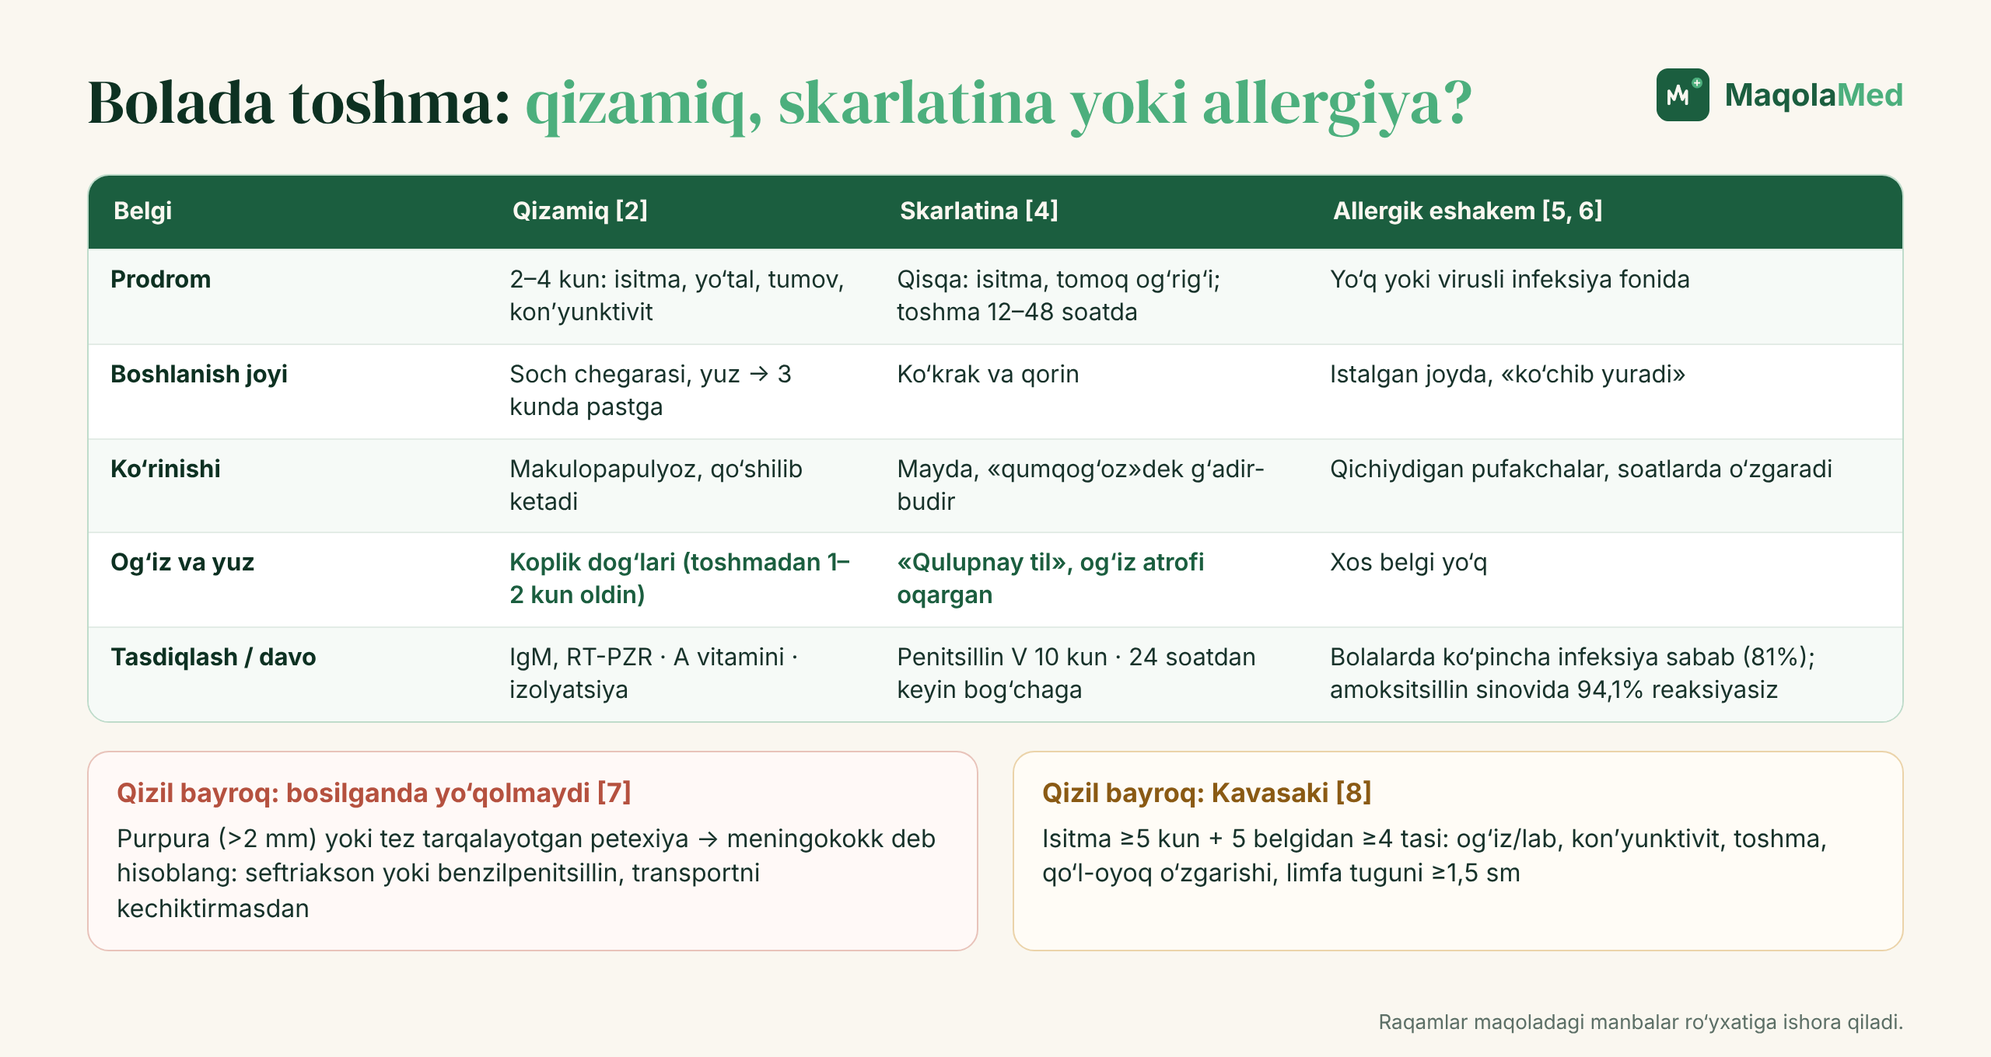
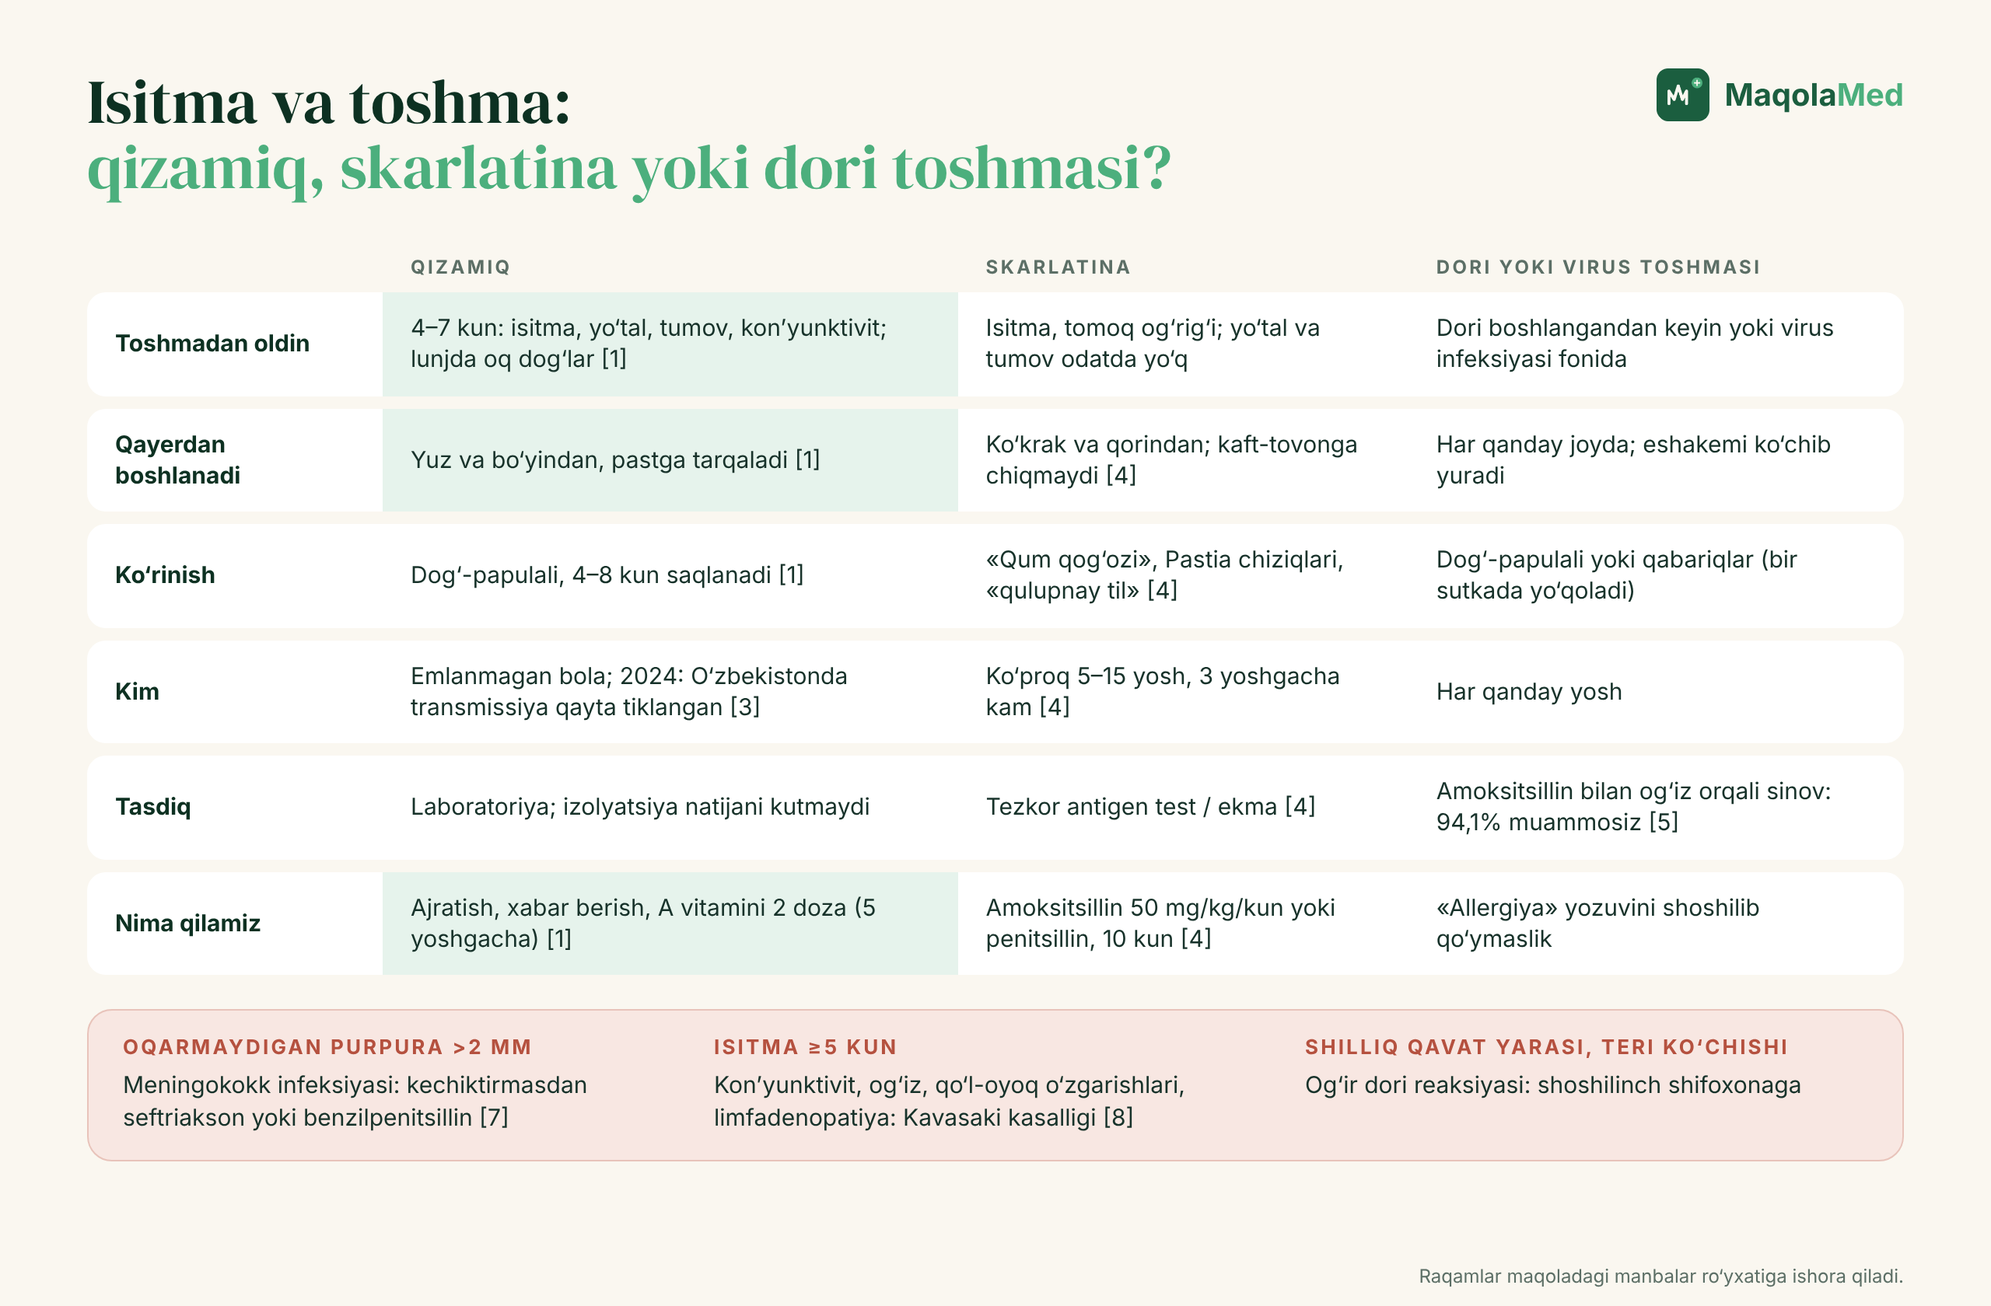
12-dekabr maqolasi qayta yozildi (v2, humanizer): bolada toshma — muqovalar, 1 rasm

diff --git a/_manba/2026-12-12/muqova-instagram-4x5.html b/_manba/2026-12-12/muqova-instagram-4x5.html
@@ -1,0 +1,87 @@
+<!doctype html>
+<html lang="uz">
+<head><base href="file:///home/claude/maqolamed-rasmlar/_shablon/">
+<meta charset="utf-8">
+<style>
+@font-face{font-family:"DM Serif Display";src:url("fonts/dm-serif-display-latin-400-normal.woff2") format("woff2");}
+@font-face{font-family:"DM Serif Display";src:url("fonts/dm-serif-display-latin-ext-400-normal.woff2") format("woff2");unicode-range:U+0100-024F,U+1E00-1EFF;}
+:root{
+  --emerald:#1B5E3F; --deep:#0D3122; --cream:#FAF7F0; --mint:#7FC9A0; --green:#4CAF7D;
+}
+*{margin:0;padding:0;box-sizing:border-box}
+html,body{width:1280px;height:720px;overflow:hidden;background:var(--deep)}
+.cover{position:relative;width:1280px;height:720px;overflow:hidden;font-family:"Inter",sans-serif;color:var(--cream);
+  background:
+    radial-gradient(900px 600px at 78% 40%, rgba(76,175,125,.22), transparent 60%),
+    radial-gradient(700px 500px at 0% 100%, rgba(13,49,34,.9), transparent 70%),
+    linear-gradient(135deg,#123F2C 0%, #1B5E3F 55%, #164D34 100%);}
+.grid{position:absolute;inset:0;background-image:
+    linear-gradient(rgba(250,247,240,.035) 1px,transparent 1px),
+    linear-gradient(90deg,rgba(250,247,240,.035) 1px,transparent 1px);
+  background-size:40px 40px;}
+.ekg{position:absolute;left:0;top:300px;width:1280px;height:200px;opacity:.16}
+.left{position:absolute;left:64px;top:52px;width:690px}
+.brand{display:flex;align-items:center;gap:28px}
+.brand img{height:62px;display:block}
+.tag{display:flex;align-items:center;gap:14px;font-size:13px;letter-spacing:.32em;color:rgba(250,247,240,.72);font-weight:500}
+.tag i{width:4px;height:4px;border-radius:50%;background:var(--mint);display:inline-block}
+.tag .line{width:90px;height:1px;background:rgba(250,247,240,.35)}
+.kicker{margin-top:54px;display:inline-flex;align-items:center;gap:10px;font-size:15px;font-weight:600;letter-spacing:.14em;text-transform:uppercase;color:var(--mint)}
+.kicker span{display:inline-block;width:28px;height:2px;background:var(--mint)}
+h1{margin-top:16px;font-family:"DM Serif Display",serif;font-weight:400;font-size:78px;line-height:.98;letter-spacing:-.01em;color:var(--cream)}
+h1 em{font-style:normal;color:var(--mint)}
+.sub{margin-top:22px;font-size:21px;color:rgba(250,247,240,.82);font-weight:400}
+.points{position:absolute;left:64px;bottom:50px;display:flex;gap:0}
+.pt{width:172px;padding-right:18px;display:flex;flex-direction:column;align-items:flex-start;gap:12px}
+.pt + .pt{padding-left:22px;border-left:1px solid rgba(250,247,240,.18)}
+.ic{width:52px;height:52px;border-radius:50%;border:1.6px solid rgba(250,247,240,.75);display:grid;place-items:center}
+.ic svg{width:26px;height:26px;stroke:var(--cream);fill:none;stroke-width:1.7;stroke-linecap:round;stroke-linejoin:round}
+.pt p{font-size:15px;line-height:1.3;color:rgba(250,247,240,.92);font-weight:500}
+.card{position:absolute;right:56px;top:96px;width:400px;border-radius:22px;padding:28px 30px 26px;
+  background:linear-gradient(160deg,rgba(13,49,34,.82),rgba(13,49,34,.62));
+  border:1px solid rgba(127,201,160,.35);box-shadow:0 30px 60px rgba(0,0,0,.35)}
+.card .ch{display:flex;justify-content:space-between;align-items:center}
+.card .lbl{font-size:12px;letter-spacing:.24em;font-weight:600;color:var(--mint)}
+.card .pill{font-size:12px;font-weight:600;padding:5px 10px;border-radius:999px;background:rgba(127,201,160,.16);color:var(--mint)}
+.card h3{margin-top:14px;font-size:22px;font-weight:600}
+.card h3 small{display:block;margin-top:4px;font-size:14px;font-weight:400;color:rgba(250,247,240,.65)}
+.rows{margin-top:18px;border-top:1px solid rgba(250,247,240,.14)}
+.row{display:flex;justify-content:space-between;padding:9px 0;border-bottom:1px solid rgba(250,247,240,.10);font-size:16px}
+.row span:first-child{color:rgba(250,247,240,.68)}
+.row span:last-child{font-weight:600;font-variant-numeric:tabular-nums}
+.row .ok{color:var(--mint)}
+.quote{margin-top:18px;font-family:"DM Serif Display",serif;font-size:21px;line-height:1.25;color:var(--cream)}
+.ask{margin-top:16px;display:flex;align-items:center;justify-content:space-between;padding:13px 16px;border-radius:12px;background:var(--green);color:#0D3122;font-weight:700;font-size:17px}
+.ask svg{width:22px;height:22px;stroke:#0D3122;fill:none;stroke-width:2.2;stroke-linecap:round;stroke-linejoin:round}
+
+html,body{width:1080px;height:1350px}
+.cover{width:1080px;height:1350px}
+.ekg{top:525px;width:1080px}
+.left{left:72px;top:64px;width:940px}
+.brand img{height:72px}
+h1{font-size:96px;margin-top:18px}
+.kicker{margin-top:56px;font-size:17px}
+.sub{font-size:24px}
+.card{left:72px;right:72px;top:auto;bottom:250px;width:auto;padding:30px 34px}
+.rows{display:grid;grid-template-columns:1fr 1fr;column-gap:40px}
+.quote{font-size:24px}
+.points{left:72px;right:72px;bottom:60px}
+.pt{width:auto;flex:1}
+.pt p{font-size:17px}
+
+
+
+h1{font-size:86px}
+</style>
+</head>
+<body><div class="cover"><div class="grid"></div>
+<svg class="ekg" viewBox="0 0 1280 200" preserveAspectRatio="none"><polyline fill="none" stroke="#7FC9A0" stroke-width="3" stroke-linejoin="round" stroke-linecap="round" points="0,120 640,120 670,120 690,98 710,120 750,120 770,40 795,175 820,120 880,120 905,102 930,120 1280,120"/></svg>
+<div class="left"><div class="brand"><img src="logo_dark_bg.png" alt="MaqolaMed"></div>
+<div class="tag" style="margin-top:22px"><span>ILM</span><i></i><span>AMALIYOT</span><i></i><span>ODAM UCHUN</span><span class="line"></span></div>
+<div class="kicker"><span></span>Farqlash · Pediatriya</div>
+<h1>Bolada toshma:<br>qizamiqmi, skarlatinami<br><em>yoki allergiya?</em></h1>
+<div class="sub">Toshmadan oldingi kunlar tashxisni aytib beradi.</div></div>
+<div class="points"><div class="pt"><div class="ic"><svg viewBox="0 0 24 24"><circle cx="12" cy="12" r="9"/><path d="M9.5 9.5a2.5 2.5 0 1 1 3.5 2.3c-.7.3-1 .8-1 1.5v.7"/><path d="M12 17v.5"/></svg></div><p>Toshma qayerdan boshlanadi?</p></div><div class="pt"><div class="ic"><svg viewBox="0 0 24 24"><path d="M9 3h6"/><path d="M10 3v12.5a2 2 0 0 0 4 0V3"/><path d="M10 10h4"/><path d="M5 21h14"/></svg></div><p>Skarlatinaga qaysi test kerak?</p></div><div class="pt"><div class="ic"><svg viewBox="0 0 24 24"><rect x="3" y="8.5" width="18" height="7" rx="3.5" transform="rotate(-40 12 12)"/><path d="M9.3 9.3l5.4 5.4"/></svg></div><p>Amoksitsillin allergiyasi rostmi?</p></div><div class="pt"><div class="ic"><svg viewBox="0 0 24 24"><path d="M12 3l9.5 17h-19z"/><path d="M12 10v4"/><path d="M12 17v.5"/></svg></div><p>Qaysi toshma kutmaydi?</p></div></div>
+<div class="card"><div class="ch"><span class="lbl">FARQLASH</span><span class="pill">3 tashxis</span></div>
+<h3>Toshma qayerdan boshlanadi?<small>JSST 2026 · CDC 2026 · NICE 2024</small></h3><div class="rows"><div class="row"><span>Qizamiq</span><span class="ok">yuz → pastga</span></div><div class="row"><span>Skarlatina</span><span class="">ko‘krak, qorin</span></div><div class="row"><span>Eshakemi</span><span class="">ko‘chib yuradi</span></div><div class="row"><span>Purpura >2 mm</span><span class="">shoshilinch!</span></div></div><div class="quote">«Suprastin qilib qo‘yamizmi?»</div><div class="ask">Siz nima qilardingiz?<svg viewBox="0 0 24 24"><path d="M5 12h14"/><path d="M13 6l6 6-6 6"/></svg></div></div>
+</div></body></html>

diff --git a/_manba/2026-12-12/muqova-16x9.html b/_manba/2026-12-12/muqova-16x9.html
@@ -1,0 +1,70 @@
+<!doctype html>
+<html lang="uz">
+<head><base href="file:///home/claude/maqolamed-rasmlar/_shablon/">
+<meta charset="utf-8">
+<style>
+@font-face{font-family:"DM Serif Display";src:url("fonts/dm-serif-display-latin-400-normal.woff2") format("woff2");}
+@font-face{font-family:"DM Serif Display";src:url("fonts/dm-serif-display-latin-ext-400-normal.woff2") format("woff2");unicode-range:U+0100-024F,U+1E00-1EFF;}
+:root{
+  --emerald:#1B5E3F; --deep:#0D3122; --cream:#FAF7F0; --mint:#7FC9A0; --green:#4CAF7D;
+}
+*{margin:0;padding:0;box-sizing:border-box}
+html,body{width:1280px;height:720px;overflow:hidden;background:var(--deep)}
+.cover{position:relative;width:1280px;height:720px;overflow:hidden;font-family:"Inter",sans-serif;color:var(--cream);
+  background:
+    radial-gradient(900px 600px at 78% 40%, rgba(76,175,125,.22), transparent 60%),
+    radial-gradient(700px 500px at 0% 100%, rgba(13,49,34,.9), transparent 70%),
+    linear-gradient(135deg,#123F2C 0%, #1B5E3F 55%, #164D34 100%);}
+.grid{position:absolute;inset:0;background-image:
+    linear-gradient(rgba(250,247,240,.035) 1px,transparent 1px),
+    linear-gradient(90deg,rgba(250,247,240,.035) 1px,transparent 1px);
+  background-size:40px 40px;}
+.ekg{position:absolute;left:0;top:300px;width:1280px;height:200px;opacity:.16}
+.left{position:absolute;left:64px;top:52px;width:690px}
+.brand{display:flex;align-items:center;gap:28px}
+.brand img{height:62px;display:block}
+.tag{display:flex;align-items:center;gap:14px;font-size:13px;letter-spacing:.32em;color:rgba(250,247,240,.72);font-weight:500}
+.tag i{width:4px;height:4px;border-radius:50%;background:var(--mint);display:inline-block}
+.tag .line{width:90px;height:1px;background:rgba(250,247,240,.35)}
+.kicker{margin-top:54px;display:inline-flex;align-items:center;gap:10px;font-size:15px;font-weight:600;letter-spacing:.14em;text-transform:uppercase;color:var(--mint)}
+.kicker span{display:inline-block;width:28px;height:2px;background:var(--mint)}
+h1{margin-top:16px;font-family:"DM Serif Display",serif;font-weight:400;font-size:78px;line-height:.98;letter-spacing:-.01em;color:var(--cream)}
+h1 em{font-style:normal;color:var(--mint)}
+.sub{margin-top:22px;font-size:21px;color:rgba(250,247,240,.82);font-weight:400}
+.points{position:absolute;left:64px;bottom:50px;display:flex;gap:0}
+.pt{width:172px;padding-right:18px;display:flex;flex-direction:column;align-items:flex-start;gap:12px}
+.pt + .pt{padding-left:22px;border-left:1px solid rgba(250,247,240,.18)}
+.ic{width:52px;height:52px;border-radius:50%;border:1.6px solid rgba(250,247,240,.75);display:grid;place-items:center}
+.ic svg{width:26px;height:26px;stroke:var(--cream);fill:none;stroke-width:1.7;stroke-linecap:round;stroke-linejoin:round}
+.pt p{font-size:15px;line-height:1.3;color:rgba(250,247,240,.92);font-weight:500}
+.card{position:absolute;right:56px;top:96px;width:400px;border-radius:22px;padding:28px 30px 26px;
+  background:linear-gradient(160deg,rgba(13,49,34,.82),rgba(13,49,34,.62));
+  border:1px solid rgba(127,201,160,.35);box-shadow:0 30px 60px rgba(0,0,0,.35)}
+.card .ch{display:flex;justify-content:space-between;align-items:center}
+.card .lbl{font-size:12px;letter-spacing:.24em;font-weight:600;color:var(--mint)}
+.card .pill{font-size:12px;font-weight:600;padding:5px 10px;border-radius:999px;background:rgba(127,201,160,.16);color:var(--mint)}
+.card h3{margin-top:14px;font-size:22px;font-weight:600}
+.card h3 small{display:block;margin-top:4px;font-size:14px;font-weight:400;color:rgba(250,247,240,.65)}
+.rows{margin-top:18px;border-top:1px solid rgba(250,247,240,.14)}
+.row{display:flex;justify-content:space-between;padding:9px 0;border-bottom:1px solid rgba(250,247,240,.10);font-size:16px}
+.row span:first-child{color:rgba(250,247,240,.68)}
+.row span:last-child{font-weight:600;font-variant-numeric:tabular-nums}
+.row .ok{color:var(--mint)}
+.quote{margin-top:18px;font-family:"DM Serif Display",serif;font-size:21px;line-height:1.25;color:var(--cream)}
+.ask{margin-top:16px;display:flex;align-items:center;justify-content:space-between;padding:13px 16px;border-radius:12px;background:var(--green);color:#0D3122;font-weight:700;font-size:17px}
+.ask svg{width:22px;height:22px;stroke:#0D3122;fill:none;stroke-width:2.2;stroke-linecap:round;stroke-linejoin:round}
+
+h1{font-size:62px}
+</style>
+</head>
+<body><div class="cover"><div class="grid"></div>
+<svg class="ekg" viewBox="0 0 1280 200" preserveAspectRatio="none"><polyline fill="none" stroke="#7FC9A0" stroke-width="3" stroke-linejoin="round" stroke-linecap="round" points="0,120 640,120 670,120 690,98 710,120 750,120 770,40 795,175 820,120 880,120 905,102 930,120 1280,120"/></svg>
+<div class="left"><div class="brand"><img src="logo_dark_bg.png" alt="MaqolaMed"></div>
+<div class="tag" style="margin-top:22px"><span>ILM</span><i></i><span>AMALIYOT</span><i></i><span>ODAM UCHUN</span><span class="line"></span></div>
+<div class="kicker"><span></span>Farqlash · Pediatriya</div>
+<h1>Bolada toshma:<br>qizamiqmi, skarlatinami<br><em>yoki allergiya?</em></h1>
+<div class="sub">Toshmadan oldingi kunlar tashxisni aytib beradi.</div></div>
+<div class="points"><div class="pt"><div class="ic"><svg viewBox="0 0 24 24"><circle cx="12" cy="12" r="9"/><path d="M9.5 9.5a2.5 2.5 0 1 1 3.5 2.3c-.7.3-1 .8-1 1.5v.7"/><path d="M12 17v.5"/></svg></div><p>Toshma qayerdan boshlanadi?</p></div><div class="pt"><div class="ic"><svg viewBox="0 0 24 24"><path d="M9 3h6"/><path d="M10 3v12.5a2 2 0 0 0 4 0V3"/><path d="M10 10h4"/><path d="M5 21h14"/></svg></div><p>Skarlatinaga qaysi test kerak?</p></div><div class="pt"><div class="ic"><svg viewBox="0 0 24 24"><rect x="3" y="8.5" width="18" height="7" rx="3.5" transform="rotate(-40 12 12)"/><path d="M9.3 9.3l5.4 5.4"/></svg></div><p>Amoksitsillin allergiyasi rostmi?</p></div><div class="pt"><div class="ic"><svg viewBox="0 0 24 24"><path d="M12 3l9.5 17h-19z"/><path d="M12 10v4"/><path d="M12 17v.5"/></svg></div><p>Qaysi toshma kutmaydi?</p></div></div>
+<div class="card"><div class="ch"><span class="lbl">FARQLASH</span><span class="pill">3 tashxis</span></div>
+<h3>Toshma qayerdan boshlanadi?<small>JSST 2026 · CDC 2026 · NICE 2024</small></h3><div class="rows"><div class="row"><span>Qizamiq</span><span class="ok">yuz → pastga</span></div><div class="row"><span>Skarlatina</span><span class="">ko‘krak, qorin</span></div><div class="row"><span>Eshakemi</span><span class="">ko‘chib yuradi</span></div><div class="row"><span>Purpura >2 mm</span><span class="">shoshilinch!</span></div></div><div class="quote">«Suprastin qilib qo‘yamizmi?»</div><div class="ask">Siz nima qilardingiz?<svg viewBox="0 0 24 24"><path d="M5 12h14"/><path d="M13 6l6 6-6 6"/></svg></div></div>
+</div></body></html>

diff --git a/_manba/2026-12-12/1-rasm.html b/_manba/2026-12-12/1-rasm.html
@@ -1,0 +1,49 @@
+<!doctype html><html lang="uz"><head><meta charset="utf-8"><base href="file:///home/claude/maqolamed-rasmlar/_shablon/">
+<style>
+@font-face{font-family:"DM Serif Display";src:url("fonts/dm-serif-display-latin-400-normal.woff2") format("woff2");}
+@font-face{font-family:"DM Serif Display";src:url("fonts/dm-serif-display-latin-ext-400-normal.woff2") format("woff2");unicode-range:U+0100-024F,U+1E00-1EFF;}
+:root{--emerald:#1B5E3F;--deep:#0D3122;--cream:#FAF7F0;--mint:#7FC9A0;--green:#4CAF7D;--ink:#17322A;--muted:#5C6F66;--amber:#C98A2E;--amberbg:#FBF1E1;--red:#B5513F;--redbg:#F8E7E2;--tint:#E6F3EC}
+*{margin:0;padding:0;box-sizing:border-box}
+html,body{width:1280px;height:var(--H,900px);background:var(--cream);overflow:hidden}
+.fig{position:relative;width:1280px;height:var(--H,900px);padding:44px 56px;font-family:"Inter",sans-serif;color:var(--ink)}
+.top{display:flex;justify-content:space-between;align-items:flex-start;margin-bottom:28px}
+h1{font-family:"DM Serif Display",serif;font-weight:400;font-size:40px;line-height:1.05;color:var(--deep)}
+h1 em{font-style:normal;color:var(--green)}
+.brand{display:flex;align-items:center;gap:10px;font-weight:700;font-size:20px;color:var(--emerald)}
+.brand img{height:34px}.brand b{color:var(--green);font-weight:700}
+table{width:100%;border-collapse:separate;border-spacing:0 8px;font-size:16px;line-height:1.35}
+th{text-align:left;font-size:12px;letter-spacing:.14em;text-transform:uppercase;color:var(--muted);padding:0 18px 2px;font-weight:700}
+td{background:#fff;padding:13px 18px;vertical-align:middle}
+td:first-child{border-radius:12px 0 0 12px;font-weight:700;color:var(--deep)}
+td:last-child{border-radius:0 12px 12px 0}
+td.new{background:var(--tint)} td.same{background:#F1EEE6;color:var(--muted)}
+td.warn{background:var(--redbg)}
+.badge{display:inline-block;font-size:11px;font-weight:700;letter-spacing:.08em;padding:4px 9px;border-radius:999px;margin-right:8px;vertical-align:1px}
+.b-new{background:var(--emerald);color:var(--cream)} .b-same{background:#E2DED3;color:var(--muted)} .b-red{background:var(--red);color:#fff} .b-amb{background:var(--amber);color:#fff}
+.muted{color:var(--muted)}
+.node{border-radius:14px;padding:14px 18px;font-size:16px;line-height:1.38}
+.node b{display:block;font-size:17px;margin-bottom:3px}
+.n-dark{background:var(--emerald);color:var(--cream)} .n-deep{background:var(--deep);color:var(--cream)}
+.n-white{background:#fff;border:1.5px solid #BFDCCB} .n-amb{background:#fff;border:1.5px solid #EBD3A9} .n-red{background:var(--redbg);border:1.5px solid #E8C3BA}
+.tagc{display:inline-block;font-size:12px;font-weight:700;letter-spacing:.12em;text-transform:uppercase;padding:6px 12px;border-radius:999px}
+.t-g{background:#DDEFE5;color:var(--emerald)} .t-a{background:var(--amberbg);color:#8A5A14} .t-r{background:var(--redbg);color:var(--red)}
+.note{position:absolute;left:56px;right:56px;bottom:40px;padding:14px 18px;border-radius:12px;background:#EEF2EE;font-size:15px;line-height:1.4}
+.note b{color:var(--deep)}
+.src{position:absolute;right:56px;bottom:12px;font-size:12px;color:var(--muted)}
+.arrow{stroke:var(--emerald);stroke-width:2.2;fill:none}
+</style></head><body><style>:root{--H:840px}
+table{font-size:15px}td:first-child{width:190px}th{padding-bottom:0}
+.alarm2{margin-top:14px;border-radius:16px;padding:16px 22px;background:var(--redbg);border:1.5px solid #E8C3BA;display:grid;grid-template-columns:repeat(3,1fr);gap:18px;font-size:15px;line-height:1.38}
+.alarm2 b{display:block;color:var(--red);font-size:13px;letter-spacing:.12em;text-transform:uppercase;margin-bottom:4px}
+</style>
+<div class="fig"><div class="top"><h1>Isitma va toshma:<br><em>qizamiq, skarlatina yoki dori toshmasi?</em></h1><div class="brand"><img src="icon.png" alt=""><span>Maqola<b>Med</b></span></div></div>
+
+<table><tr><th></th><th>Qizamiq</th><th>Skarlatina</th><th>Dori yoki virus toshmasi</th></tr>
+<tr><td>Toshmadan oldin</td><td class="new">4–7 kun: isitma, yo‘tal, tumov, kon’yunktivit; lunjda oq dog‘lar [1]</td><td>Isitma, tomoq og‘rig‘i; yo‘tal va tumov odatda yo‘q</td><td>Dori boshlangandan keyin yoki virus infeksiyasi fonida</td></tr>
+<tr><td>Qayerdan boshlanadi</td><td class="new">Yuz va bo‘yindan, pastga tarqaladi [1]</td><td>Ko‘krak va qorindan; kaft-tovonga chiqmaydi [4]</td><td>Har qanday joyda; eshakemi ko‘chib yuradi</td></tr>
+<tr><td>Ko‘rinish</td><td>Dog‘-papulali, 4–8 kun saqlanadi [1]</td><td>«Qum qog‘ozi», Pastia chiziqlari, «qulupnay til» [4]</td><td>Dog‘-papulali yoki qabariqlar (bir sutkada yo‘qoladi)</td></tr>
+<tr><td>Kim</td><td>Emlanmagan bola; 2024: O‘zbekistonda transmissiya qayta tiklangan [3]</td><td>Ko‘proq 5–15 yosh, 3 yoshgacha kam [4]</td><td>Har qanday yosh</td></tr>
+<tr><td>Tasdiq</td><td>Laboratoriya; izolyatsiya natijani kutmaydi</td><td>Tezkor antigen test / ekma [4]</td><td>Amoksitsillin bilan og‘iz orqali sinov: 94,1% muammosiz [5]</td></tr>
+<tr><td>Nima qilamiz</td><td class="new">Ajratish, xabar berish, A vitamini 2 doza (5 yoshgacha) [1]</td><td>Amoksitsillin 50 mg/kg/kun yoki penitsillin, 10 kun [4]</td><td>«Allergiya» yozuvini shoshilib qo‘ymaslik</td></tr></table>
+<div class="alarm2"><div><b>Oqarmaydigan purpura &gt;2 mm</b>Meningokokk infeksiyasi: kechiktirmasdan seftriakson yoki benzilpenitsillin [7]</div><div><b>Isitma ≥5 kun</b>Kon’yunktivit, og‘iz, qo‘l-oyoq o‘zgarishlari, limfadenopatiya: Kavasaki kasalligi [8]</div><div><b>Shilliq qavat yarasi, teri ko‘chishi</b>Og‘ir dori reaksiyasi: shoshilinch shifoxonaga</div></div>
+<div class="src">Raqamlar maqoladagi manbalar ro‘yxatiga ishora qiladi.</div></div></body></html>
